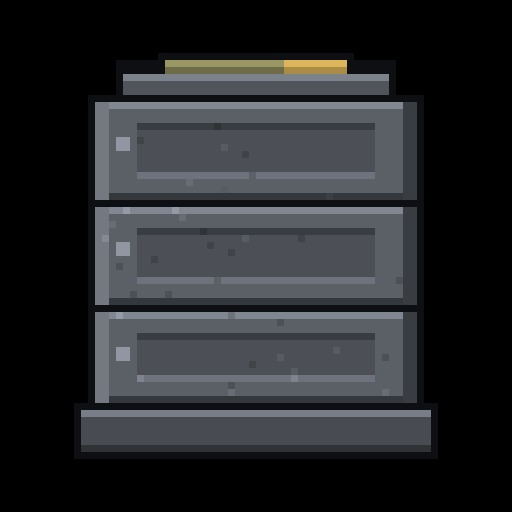
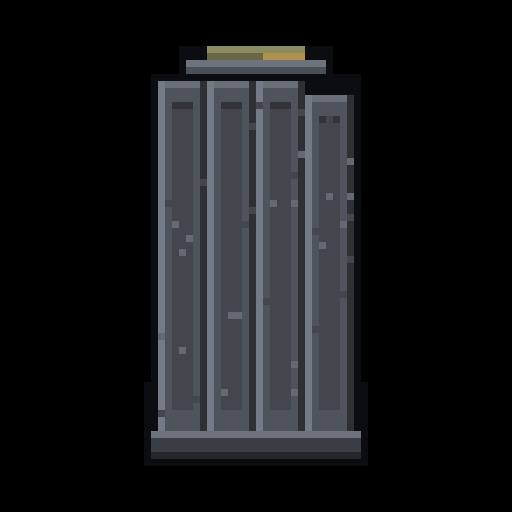
Boltgun 1.4.12: upright ribbed Bolt Pistol Magazine
Claude-Session: https://claude.ai/code/session_01PqPi8UEDnERcNBcjVgrc36

diff --git a/tools/build_items.py b/tools/build_items.py
@@ -147,7 +147,7 @@ BUILD = {
     ("Ammo", "shell75"): shell,
     ("Ammo", "casing75"): casing,
     ("Magazine", "rifle_mag"): lambda: mag("rifle_mag", 400, (96, 7, 67, 132), (2, 4), 30, 1.2000000476837158, 1, (0.012888908386230469, -0.12591969966888428)),
-    ("Magazine", "pistol_mag"): lambda: mag("pistol_mag", 1000, (24, 14, 208, 232), (2, 3), 10, 1.0, 0, (0.005671977996826172, -0.09917294979095459)),
+    ("Magazine", "pistol_mag"): lambda: mag("pistol_mag", 1000, (60, 8, 136, 240), (2, 3), 10, 1.0, 0, (0.005671977996826172, -0.09917294979095459)),
 }
 
 def main():

diff --git a/src/Plugin.cs b/src/Plugin.cs
@@ -11,7 +11,7 @@ namespace Boltgun
     public class Plugin : BasePlugin
     {
         public const string Guid = "girthy_mods.zedzone.boltgun";
-        public const string Version = "1.4.11";
+        public const string Version = "1.4.12";
 
         public override void Load()
         {

diff --git a/CHANGELOG.md b/CHANGELOG.md
@@ -1,5 +1,8 @@
 # Changelog
 
+## 1.4.12
+- Bolt Pistol Magazine redrawn upright: tall steel box with four vertical ribs, like the printed reference.
+
 ## 1.4.11
 - New Bolt Pistol Magazine art: our own pixel-art steel box magazine with stacked ribs and a bolt in the feed lips.
 
